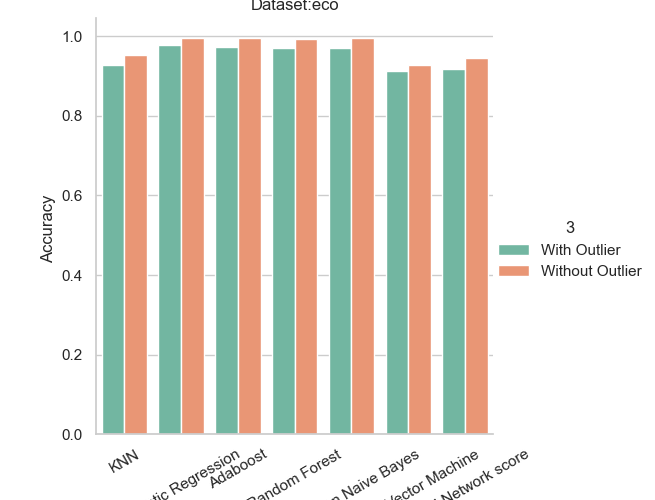
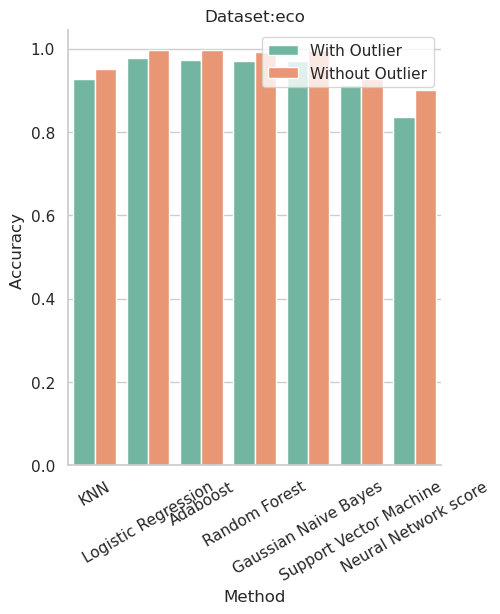
Plotter update and accuracy outputs

diff --git a/plotter.py b/plotter.py
@@ -8,9 +8,10 @@ data = pd.read_csv('accuracy.csv',header=None)
 datasets = set(data.iloc[:,2])
 for i in datasets:
     new_data = data.loc[data.loc[:,2]==i,:]
-    g = sns.catplot(data=new_data,kind='bar',x=0,y=1,hue=3)
+    g = sns.catplot(data=new_data,kind='bar',x=0,y=1,hue=3,legend=False)
     g.set(xlabel="Method",ylabel="Accuracy ",title=str('Dataset:'+i))
     g.set_xticklabels(rotation=30)
+    plt.legend(loc='upper right')
     plt.savefig(str('accuracy_plots/'+i+'.png'),bbox_inches='tight')
-    plt.show()
+    #plt.show()
 
